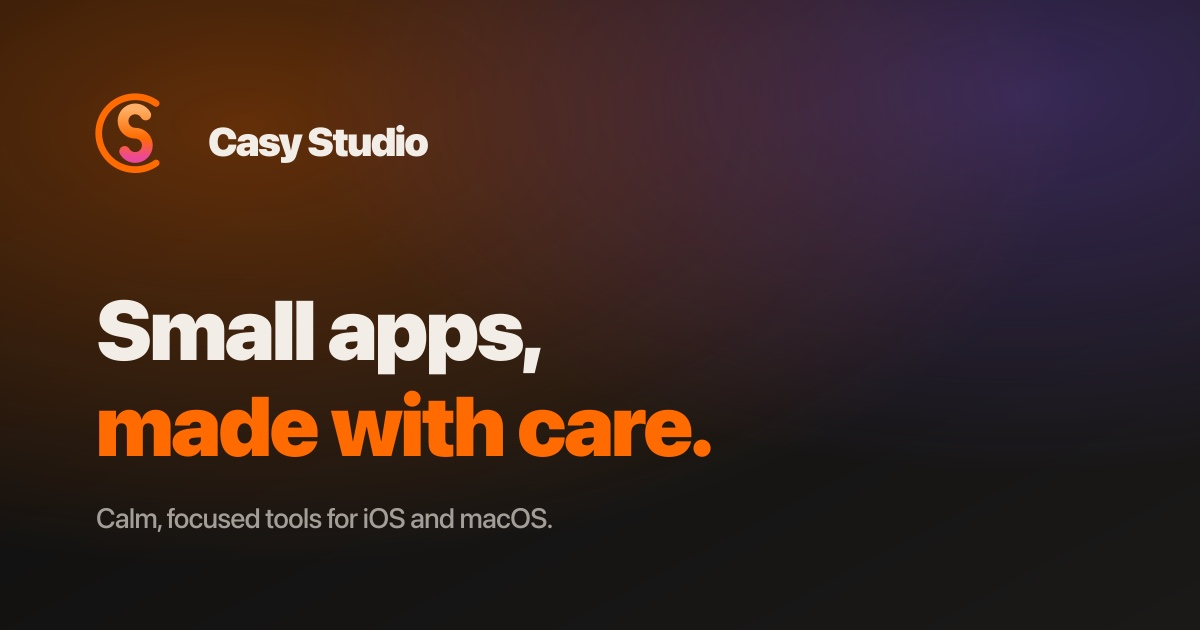
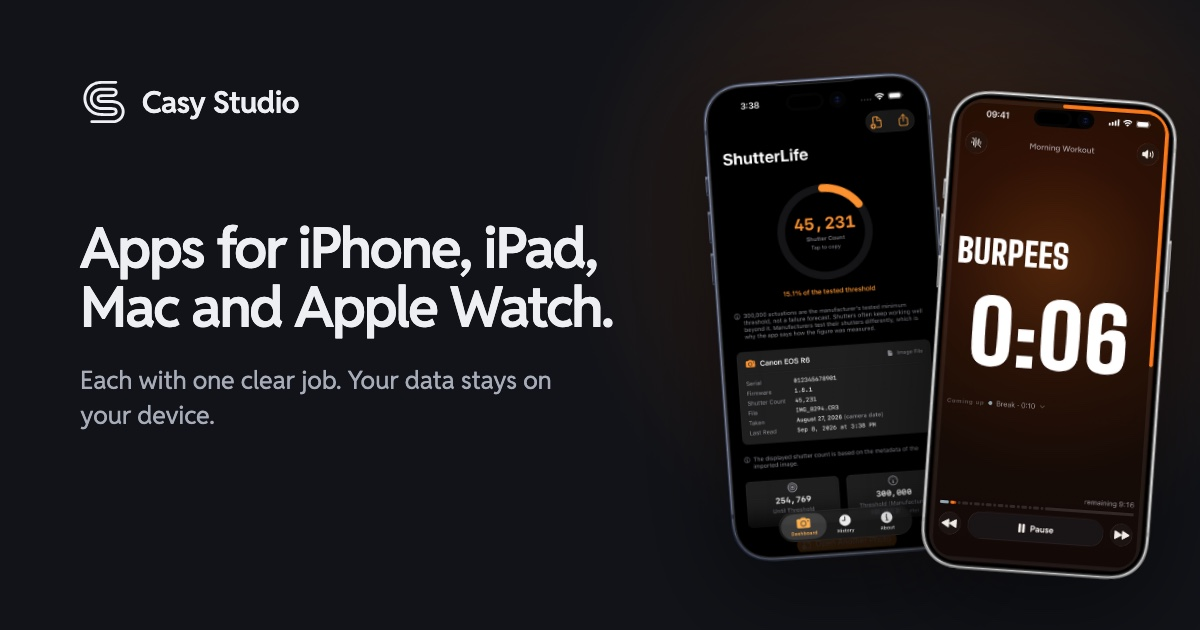
New link preview image in the new look, EN and DE (owner 23.09.)

diff --git a/shutterlife/privacy/de.html b/shutterlife/privacy/de.html
@@ -16,7 +16,10 @@
 <meta property="og:title" content="Datenschutz · ShutterLife · Casy Studio">
 <meta property="og:description" content="Datenschutzerklärung für ShutterLife — Kamera-Auslösezähler für iPhone, iPad und Mac. Keine Datenerhebung, kein Tracking — alles bleibt auf deinem Gerät.">
 <meta property="og:url" content="https://casystudio.com/shutterlife/privacy/de.html">
-<meta property="og:image" content="https://casystudio.com/og-image.jpg">
+<meta property="og:image" content="https://casystudio.com/og-image-de.jpg">
+<meta property="og:image:width" content="1200">
+<meta property="og:image:height" content="630">
+<meta property="og:image:alt" content="Casy Studio: Apps für iPhone, iPad, Mac und Apple Watch">
 <meta property="og:locale" content="de_DE">
 <meta name="twitter:card" content="summary_large_image">
 <link rel="icon" href="/assets/img/casy-favicon.ico" sizes="16x16 32x32 48x48">

diff --git a/sequenz/privacy/de.html b/sequenz/privacy/de.html
@@ -16,7 +16,10 @@
 <meta property="og:title" content="Datenschutz · SQNZ · Casy Studio">
 <meta property="og:description" content="Datenschutzerklärung für SQNZ — Intervall-Timer für iPhone und Apple Watch. Kein Tracking, keine Analyse, keine Cloud — alle Daten bleiben auf deinem Gerät.">
 <meta property="og:url" content="https://casystudio.com/sequenz/privacy/de.html">
-<meta property="og:image" content="https://casystudio.com/og-image.jpg">
+<meta property="og:image" content="https://casystudio.com/og-image-de.jpg">
+<meta property="og:image:width" content="1200">
+<meta property="og:image:height" content="630">
+<meta property="og:image:alt" content="Casy Studio: Apps für iPhone, iPad, Mac und Apple Watch">
 <meta property="og:locale" content="de_DE">
 <meta name="twitter:card" content="summary_large_image">
 <link rel="icon" href="/assets/img/casy-favicon.ico" sizes="16x16 32x32 48x48">

diff --git a/shutterlife/de.html b/shutterlife/de.html
@@ -16,7 +16,10 @@
 <meta property="og:title" content="ShutterLife · Casy Studio">
 <meta property="og:description" content="ShutterLife liest den Auslösezähler deiner Kamera direkt aus den Bilddateien: ohne Internet, ohne Upload, ohne Account. Für iPhone, iPad und Mac.">
 <meta property="og:url" content="https://casystudio.com/shutterlife/de.html">
-<meta property="og:image" content="https://casystudio.com/og-image.jpg">
+<meta property="og:image" content="https://casystudio.com/og-image-de.jpg">
+<meta property="og:image:width" content="1200">
+<meta property="og:image:height" content="630">
+<meta property="og:image:alt" content="Casy Studio: Apps für iPhone, iPad, Mac und Apple Watch">
 <meta property="og:locale" content="de_DE">
 <meta name="twitter:card" content="summary_large_image">
 <link rel="icon" href="/assets/img/casy-favicon.ico" sizes="16x16 32x32 48x48">

diff --git a/datenschutz/de.html b/datenschutz/de.html
@@ -16,7 +16,10 @@
 <meta property="og:title" content="Datenschutz Website · Casy Studio">
 <meta property="og:description" content="Datenschutzerklärung von Casy Studio gemäß Art. 13 DSGVO. Hosting über GitHub Pages, keine Cookies, kein Tracking, keine Analyse.">
 <meta property="og:url" content="https://casystudio.com/datenschutz/de.html">
-<meta property="og:image" content="https://casystudio.com/og-image.jpg">
+<meta property="og:image" content="https://casystudio.com/og-image-de.jpg">
+<meta property="og:image:width" content="1200">
+<meta property="og:image:height" content="630">
+<meta property="og:image:alt" content="Casy Studio: Apps für iPhone, iPad, Mac und Apple Watch">
 <meta property="og:locale" content="de_DE">
 <meta name="twitter:card" content="summary_large_image">
 <link rel="icon" href="/assets/img/casy-favicon.ico" sizes="16x16 32x32 48x48">

diff --git a/de.html b/de.html
@@ -16,7 +16,10 @@
 <meta property="og:title" content="Casy Studio: Apps für Apple-Plattformen">
 <meta property="og:description" content="Casy Studio baut Apps mit einer klaren Aufgabe für iPhone, iPad und Mac. Deine Daten bleiben auf deinem Gerät, nicht auf fremden Servern.">
 <meta property="og:url" content="https://casystudio.com/de.html">
-<meta property="og:image" content="https://casystudio.com/og-image.jpg">
+<meta property="og:image" content="https://casystudio.com/og-image-de.jpg">
+<meta property="og:image:width" content="1200">
+<meta property="og:image:height" content="630">
+<meta property="og:image:alt" content="Casy Studio: Apps für iPhone, iPad, Mac und Apple Watch">
 <meta property="og:locale" content="de_DE">
 <meta name="twitter:card" content="summary_large_image">
 <link rel="icon" href="/assets/img/casy-favicon.ico" sizes="16x16 32x32 48x48">

diff --git a/shutterlife/terms/de.html b/shutterlife/terms/de.html
@@ -16,7 +16,10 @@
 <meta property="og:title" content="Hinweise zur App · ShutterLife · Casy Studio">
 <meta property="og:description" content="Wichtige Hinweise für ShutterLife — Kamera-Auslösezähler für iPhone, iPad und Mac.">
 <meta property="og:url" content="https://casystudio.com/shutterlife/terms/de.html">
-<meta property="og:image" content="https://casystudio.com/og-image.jpg">
+<meta property="og:image" content="https://casystudio.com/og-image-de.jpg">
+<meta property="og:image:width" content="1200">
+<meta property="og:image:height" content="630">
+<meta property="og:image:alt" content="Casy Studio: Apps für iPhone, iPad, Mac und Apple Watch">
 <meta property="og:locale" content="de_DE">
 <meta name="twitter:card" content="summary_large_image">
 <link rel="icon" href="/assets/img/casy-favicon.ico" sizes="16x16 32x32 48x48">

diff --git a/sequenz/de.html b/sequenz/de.html
@@ -16,7 +16,10 @@
 <meta property="og:title" content="SQNZ · Casy Studio">
 <meta property="og:description" content="SQNZ ist ein Intervall-Timer für iPhone und Apple Watch: Du legst Arbeit und Pause fest, die App zählt für dich runter.">
 <meta property="og:url" content="https://casystudio.com/sequenz/de.html">
-<meta property="og:image" content="https://casystudio.com/og-image.jpg">
+<meta property="og:image" content="https://casystudio.com/og-image-de.jpg">
+<meta property="og:image:width" content="1200">
+<meta property="og:image:height" content="630">
+<meta property="og:image:alt" content="Casy Studio: Apps für iPhone, iPad, Mac und Apple Watch">
 <meta property="og:locale" content="de_DE">
 <meta name="twitter:card" content="summary_large_image">
 <link rel="icon" href="/assets/img/casy-favicon.ico" sizes="16x16 32x32 48x48">

diff --git a/kontakt/de.html b/kontakt/de.html
@@ -16,7 +16,10 @@
 <meta property="og:title" content="Kontakt · Casy Studio">
 <meta property="og:description" content="Kontakt zu Casy Studio: eine Adresse für Fragen zu einer App, Fehler, Ideen und Anfragen zum Datenschutz.">
 <meta property="og:url" content="https://casystudio.com/kontakt/de.html">
-<meta property="og:image" content="https://casystudio.com/og-image.jpg">
+<meta property="og:image" content="https://casystudio.com/og-image-de.jpg">
+<meta property="og:image:width" content="1200">
+<meta property="og:image:height" content="630">
+<meta property="og:image:alt" content="Casy Studio: Apps für iPhone, iPad, Mac und Apple Watch">
 <meta property="og:locale" content="de_DE">
 <meta name="twitter:card" content="summary_large_image">
 <link rel="icon" href="/assets/img/casy-favicon.ico" sizes="16x16 32x32 48x48">

diff --git a/sequenz/terms/de.html b/sequenz/terms/de.html
@@ -16,7 +16,10 @@
 <meta property="og:title" content="Hinweise zur App · SQNZ · Casy Studio">
 <meta property="og:description" content="Wichtige Hinweise für SQNZ — Intervall-Timer für iPhone und Apple Watch.">
 <meta property="og:url" content="https://casystudio.com/sequenz/terms/de.html">
-<meta property="og:image" content="https://casystudio.com/og-image.jpg">
+<meta property="og:image" content="https://casystudio.com/og-image-de.jpg">
+<meta property="og:image:width" content="1200">
+<meta property="og:image:height" content="630">
+<meta property="og:image:alt" content="Casy Studio: Apps für iPhone, iPad, Mac und Apple Watch">
 <meta property="og:locale" content="de_DE">
 <meta name="twitter:card" content="summary_large_image">
 <link rel="icon" href="/assets/img/casy-favicon.ico" sizes="16x16 32x32 48x48">

diff --git a/sequenz/impressum/de.html b/sequenz/impressum/de.html
@@ -16,7 +16,10 @@
 <meta property="og:title" content="Impressum · SQNZ · Casy Studio">
 <meta property="og:description" content="Impressum für SQNZ gemäß § 5 DDG — Anbieterkennzeichnung und Kontakt.">
 <meta property="og:url" content="https://casystudio.com/sequenz/impressum/de.html">
-<meta property="og:image" content="https://casystudio.com/og-image.jpg">
+<meta property="og:image" content="https://casystudio.com/og-image-de.jpg">
+<meta property="og:image:width" content="1200">
+<meta property="og:image:height" content="630">
+<meta property="og:image:alt" content="Casy Studio: Apps für iPhone, iPad, Mac und Apple Watch">
 <meta property="og:locale" content="de_DE">
 <meta name="twitter:card" content="summary_large_image">
 <link rel="icon" href="/assets/img/casy-favicon.ico" sizes="16x16 32x32 48x48">

diff --git a/shutterlife/support/de.html b/shutterlife/support/de.html
@@ -16,7 +16,10 @@
 <meta property="og:title" content="Support · ShutterLife · Casy Studio">
 <meta property="og:description" content="Support für ShutterLife — Kontakt, FAQ und unterstützte Kameras.">
 <meta property="og:url" content="https://casystudio.com/shutterlife/support/de.html">
-<meta property="og:image" content="https://casystudio.com/og-image.jpg">
+<meta property="og:image" content="https://casystudio.com/og-image-de.jpg">
+<meta property="og:image:width" content="1200">
+<meta property="og:image:height" content="630">
+<meta property="og:image:alt" content="Casy Studio: Apps für iPhone, iPad, Mac und Apple Watch">
 <meta property="og:locale" content="de_DE">
 <meta name="twitter:card" content="summary_large_image">
 <link rel="icon" href="/assets/img/casy-favicon.ico" sizes="16x16 32x32 48x48">

diff --git a/sequenz/support/de.html b/sequenz/support/de.html
@@ -16,7 +16,10 @@
 <meta property="og:title" content="Support · SQNZ · Casy Studio">
 <meta property="og:description" content="Support und FAQ für SQNZ — Intervall-Timer für iPhone und Apple Watch.">
 <meta property="og:url" content="https://casystudio.com/sequenz/support/de.html">
-<meta property="og:image" content="https://casystudio.com/og-image.jpg">
+<meta property="og:image" content="https://casystudio.com/og-image-de.jpg">
+<meta property="og:image:width" content="1200">
+<meta property="og:image:height" content="630">
+<meta property="og:image:alt" content="Casy Studio: Apps für iPhone, iPad, Mac und Apple Watch">
 <meta property="og:locale" content="de_DE">
 <meta name="twitter:card" content="summary_large_image">
 <link rel="icon" href="/assets/img/casy-favicon.ico" sizes="16x16 32x32 48x48">
